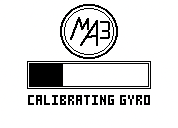
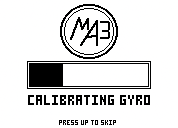
make init sequence skippable

Changed region(s): [[0.309, 0.9375, 0.6742, 1.0]]

diff --git a/master.py b/master.py
@@ -109,7 +109,7 @@ class Master_Main():
     error = 0
     self.count = 0
     drift = False
-    while self.ev3.buttons.pressed() != [Button.CENTER]:
+    while self.ev3.buttons.pressed() != [Button.UP]:
       if error != 0:
         print("Gyro is drifing!")
         drift = True
@@ -131,10 +131,14 @@ class Master_Main():
 
     while self.count < 10:
       # Calibrate gyro & color sensors
-
       num = math.floor((6 * self.count) / 10)
       self.ev3.screen.draw_image(10, 10, self.init_images[num])
       wait(900)
+
+      # Check for skip
+      if self.ev3.buttons.pressed() == [Button.UP]:
+        break
+
     #self.ev3.speaker.beep(duration=200)
     for x in range(0, 3):
       self.ev3.screen.draw_image(10, 10, "IMAGES/ready-1")
